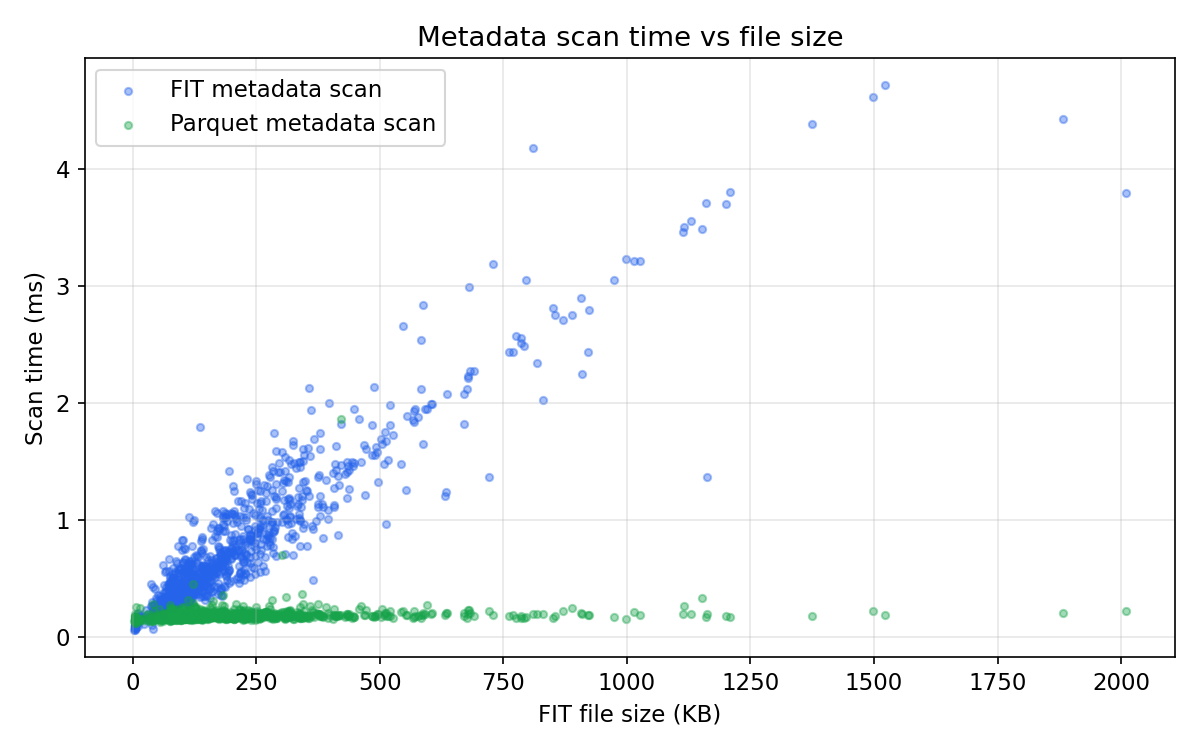
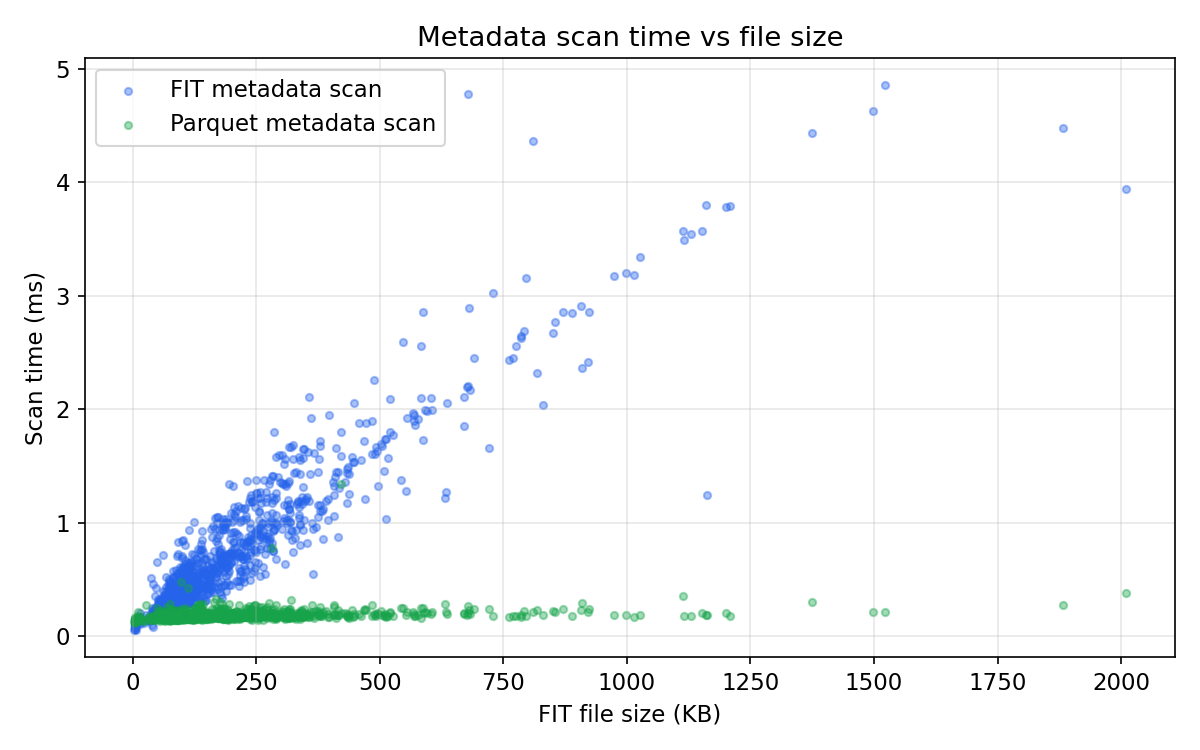
New benchmark

diff --git a/BENCHMARK.md b/BENCHMARK.md
@@ -30,17 +30,17 @@ Each operation is measured once per file (no repeated iterations) across
 
 | Operation | median | p5 | p95 | max |
 |---|--:|--:|--:|--:|
-| **FIT full parse** | **17 ms** | 5.6 ms | 67 ms | 239 ms |
-| **FIT metadata scan** | **0.58 ms** | 0.24 ms | 2.0 ms | 4.7 ms |
-| **Parquet full load** | **1.3 ms** | 0.88 ms | 2.4 ms | 5.0 ms |
-| **Parquet metadata scan** | **0.18 ms** | 0.15 ms | 0.24 ms | 1.9 ms |
-| **Parquet write** | **1.7 ms** | 0.90 ms | 4.5 ms | 103 ms |
+| **FIT full parse** | **17 ms** | 5.8 ms | 67 ms | 242 ms |
+| **FIT metadata scan** | **0.59 ms** | 0.22 ms | 2.1 ms | 4.9 ms |
+| **Parquet full load** | **1.3 ms** | 0.87 ms | 2.4 ms | 4.5 ms |
+| **Parquet metadata scan** | **0.18 ms** | 0.15 ms | 0.25 ms | 1.3 ms |
+| **Parquet write** | **1.7 ms** | 0.92 ms | 4.2 ms | 11 ms |
 
 ### Parquet vs FIT speedup
 
 | Operation | median speedup |
 |---|--:|
-| Full load | **13x** |
+| Full load | **14x** |
 | Metadata scan | **3x** |
 
 ## FIT parse time vs file size
